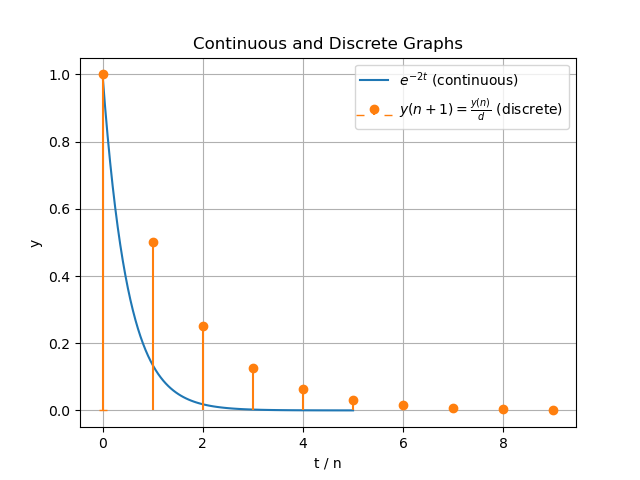
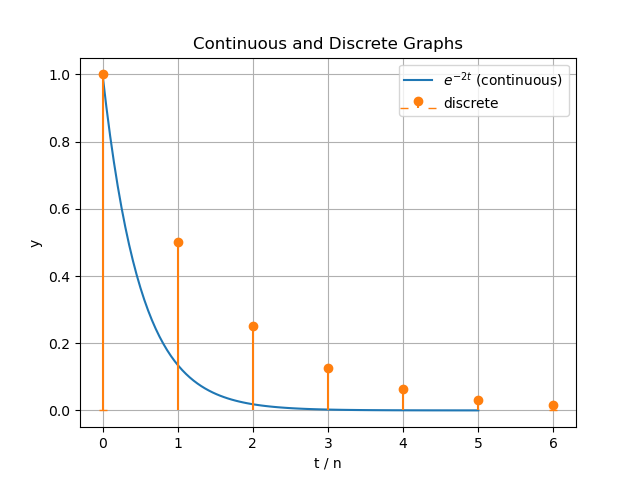
Add files via upload

diff --git a/23 ME 50/codes/graph.py b/23 ME 50/codes/graph.py
@@ -10,16 +10,13 @@ y_values_continuous = np.exp(-2 * t_values)
 # Plotting the continuous graph
 plt.plot(t_values, y_values_continuous, label=r'$e^{-2t}$ (continuous)')
 
-# Define parameters for the discrete plot
-n_values = np.arange(0, 10)  # Define the range of n values
-y_values_discrete = [1]  # Initial condition y(0) = 1
+data = np.loadtxt('values.dat', delimiter=' ', comments='Values')
 
-# Calculate the discrete values of y(n) iteratively
-for n in range(1, len(n_values)):
-    y_values_discrete.append(y_values_discrete[-1] / 2)
-
+# Extracting values for x_1(n) and x_2(n)
+n_values_1 = data[:7, 0]
+x_1_values = data[:7, 1]
 # Plotting the discrete graph
-plt.stem(n_values, y_values_discrete, linefmt='C1-', markerfmt='C1o', basefmt='C1_', label=r'$y(n+1) = \frac{y(n)}{d}$ (discrete)')
+plt.stem(n_values_1, x_1_values, linefmt='C1-', markerfmt='C1o', basefmt='C1_', label='discrete')
 
 # Adding labels and title
 plt.xlabel('t / n')

diff --git a/23 ME 50/codes/values.c b/23 ME 50/codes/values.c
@@ -1,0 +1,38 @@
+#include<stdio.h>
+int main()
+{
+     double power(double b, int e)
+     {
+     double r=1;
+     int i;
+     for(i=0;i<e;i++)
+     {
+     r*=b;
+     }
+     return r;
+     }
+
+    FILE *file = fopen("values.dat", "w");  // Open a text file for writing
+
+    if (file == NULL) {
+        printf("Error opening the file.\n");
+        return 1;  // Return an error code
+    }
+
+    // Use fprintf to write values to the file directly without arrays
+    fprintf(file, "Values for stem plot of x_1(n):\n");
+    float n[10];
+    int y=0;
+    n[0]=1;
+    for (int i = 0; i < 9; i++) {
+        
+        n[i+1]=(n[i])/2;
+        fprintf(file, "%d %f\n", i, n[i]);
+    }
+
+
+    fclose(file);  // Close the file
+
+    return 0;
+
+}
